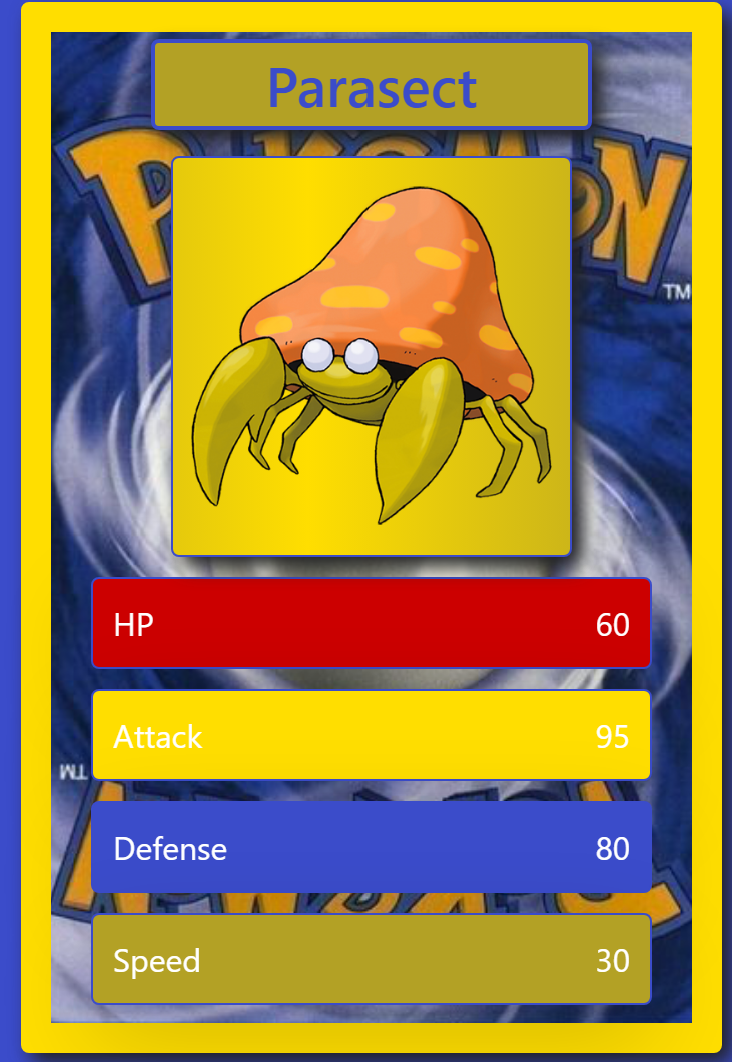
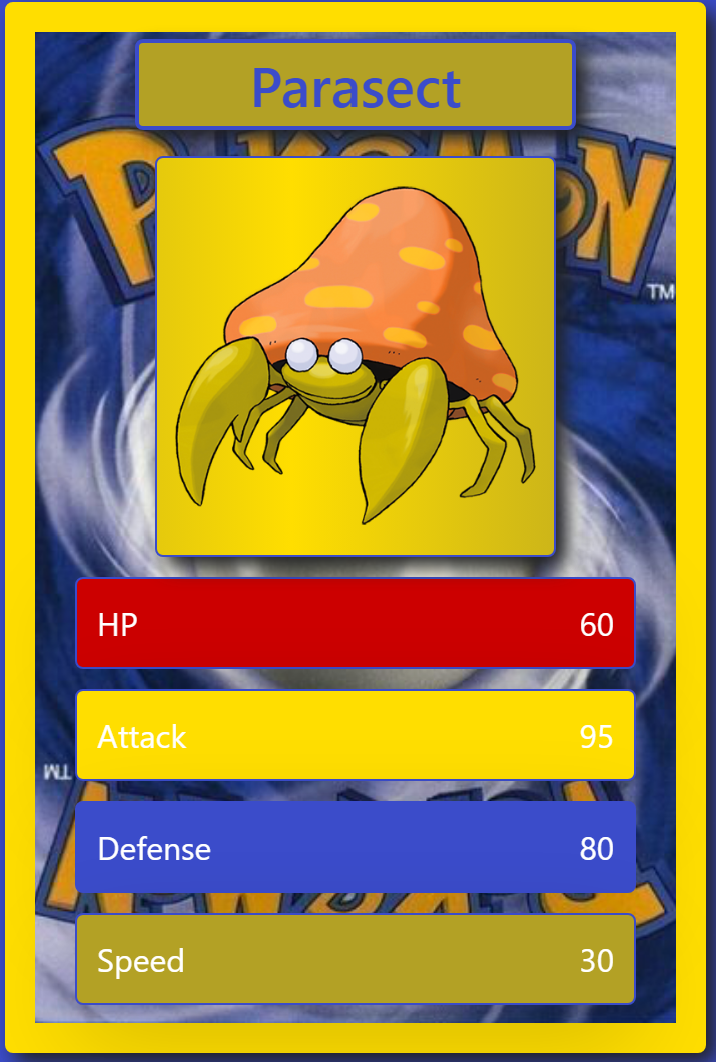
Added image class for instructions image

diff --git a/test.html b/test.html
@@ -92,7 +92,7 @@
           <h5 class="modal-title" id="instructionsLongTitle">Instructions</h5>
         </div>
         <div class="modal-body">
-          <img src="./assets/images/poke 1.png" class="cardImage" alt="pokemon card">
+          <img src="./assets/images/poke 1.png" class="instructionsImage" alt="pokemon card">
           <br> <br>
           How to play
           <br><br>

diff --git a/assets/css/styleJGS.css b/assets/css/styleJGS.css
@@ -218,3 +218,12 @@ body {
   transform: rotateY(360deg);
   transition: transform 1s ease-in-out;
 }
+
+.instructionsImage {
+  margin: 5px auto;
+  width: 200px;
+  height: 320px;
+  border: 5px solid var(--pkCerulean);
+  -webkit-filter: drop-shadow(5px 5px 5px #222);
+  filter: drop-shadow(5px 5px 5px #222);
+}
